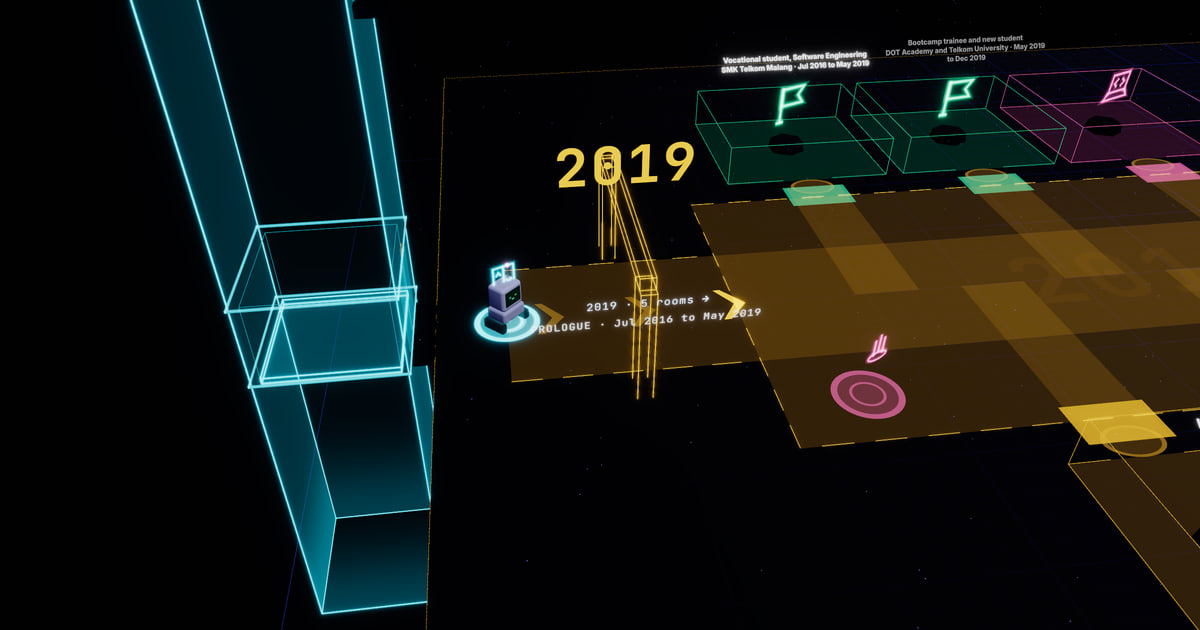
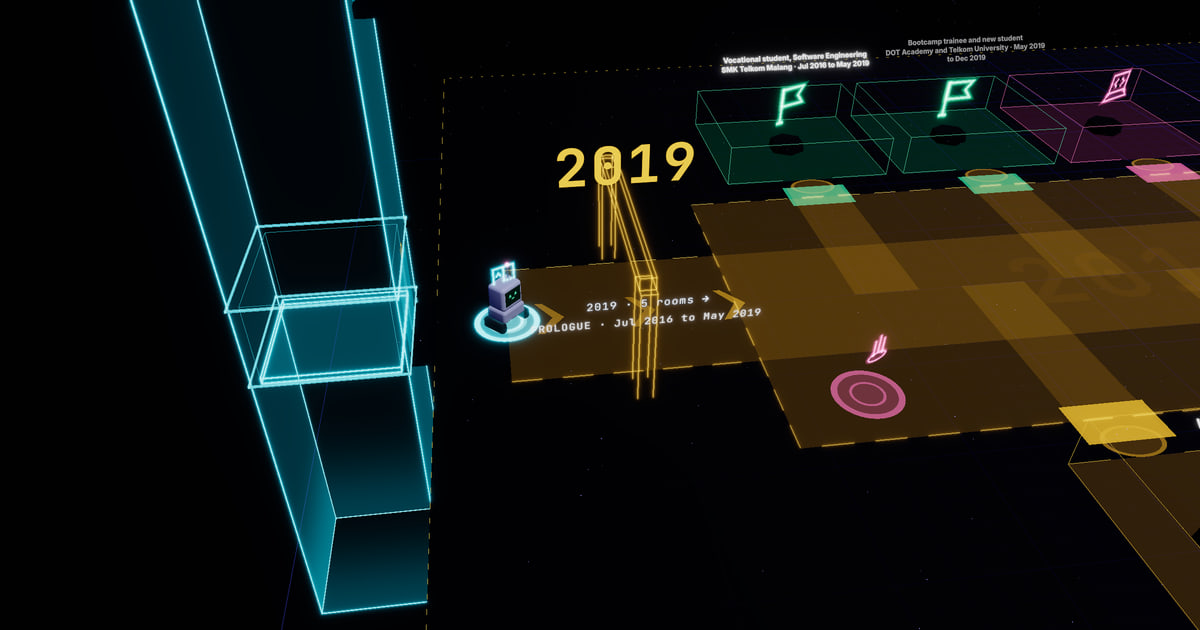
chore(og): refresh share card stills for the new headline, motto and stat tiles (#84)
* chore(og): refresh the floor stills for the new headline, motto and stat tiles

* fix(og): keep the L3 boards out of the project card text column

diff --git a/src/lib/og.tsx b/src/lib/og.tsx
@@ -70,17 +70,20 @@ function loadFonts() {
 const FILL = { position: "absolute", left: 0, top: 0, width: W, height: H, display: "flex" } as const;
 
 /** How far the floor still moves right behind side-text layouts, so the scene sits beside the text. */
-const STILL_SHIFT = { home: 300, page: 160, project: 160, post: 0 } as const;
+const STILL_SHIFT = { home: 300, page: 160, project: 300, post: 0 } as const;
 
 function backdrop(card: OgCard, still: string, accent: string) {
   const fromBelow = card.layout === "post";
-  // A project without a screenshot runs its text across the card, so the scrim reaches further.
-  const wideText = card.layout === "project" && !card.shot;
+  // Project cards sit on the L3 still, whose wing boards and floor names are text: the scrim keeps the
+  // text column near opaque (up to the screenshot frame at x 676, or across the card without one).
+  const project = card.layout === "project";
   const scrim = fromBelow
     ? "linear-gradient(0deg, rgba(5,5,12,0.97) 0%, rgba(5,5,12,0.88) 45%, rgba(5,5,12,0.35) 100%)"
-    : wideText
-      ? "linear-gradient(90deg, rgba(5,5,12,0.97) 0%, rgba(5,5,12,0.94) 55%, rgba(5,5,12,0.7) 78%, rgba(5,5,12,0.3) 100%)"
-      : "linear-gradient(90deg, rgba(5,5,12,0.97) 0%, rgba(5,5,12,0.9) 40%, rgba(5,5,12,0.5) 64%, rgba(5,5,12,0.12) 100%)";
+    : project && !card.shot
+      ? "linear-gradient(90deg, rgba(5,5,12,0.97) 0%, rgba(5,5,12,0.95) 72%, rgba(5,5,12,0.8) 88%, rgba(5,5,12,0.55) 100%)"
+      : project
+        ? "linear-gradient(90deg, rgba(5,5,12,0.97) 0%, rgba(5,5,12,0.95) 50%, rgba(5,5,12,0.75) 58%, rgba(5,5,12,0.3) 100%)"
+        : "linear-gradient(90deg, rgba(5,5,12,0.97) 0%, rgba(5,5,12,0.9) 40%, rgba(5,5,12,0.5) 64%, rgba(5,5,12,0.12) 100%)";
   return (
     <div style={FILL}>
       <img alt="" src={still} width={W} height={H} style={{ position: "absolute", left: STILL_SHIFT[card.layout], top: 0, width: W, height: H, objectFit: "cover" }} />
